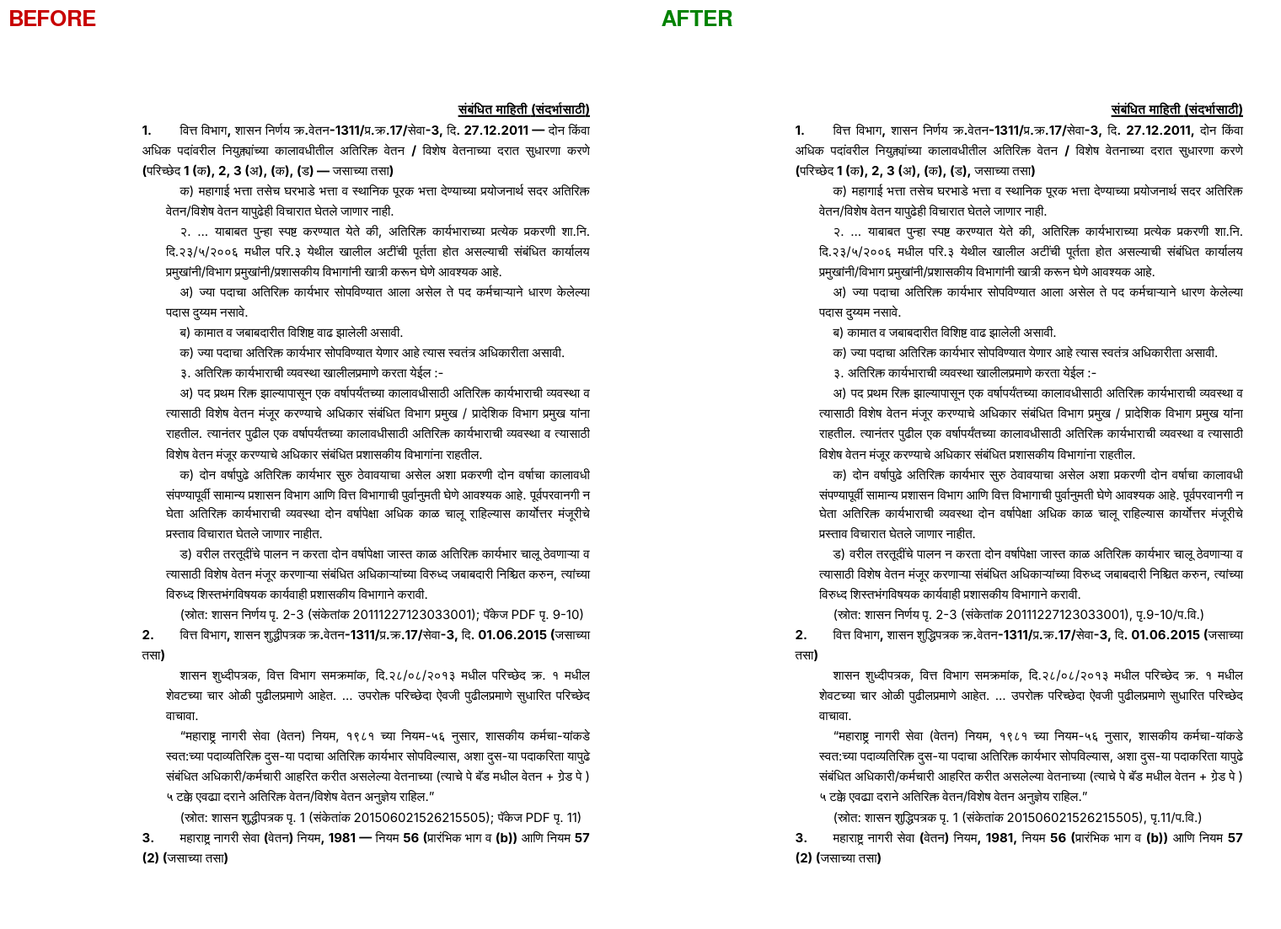
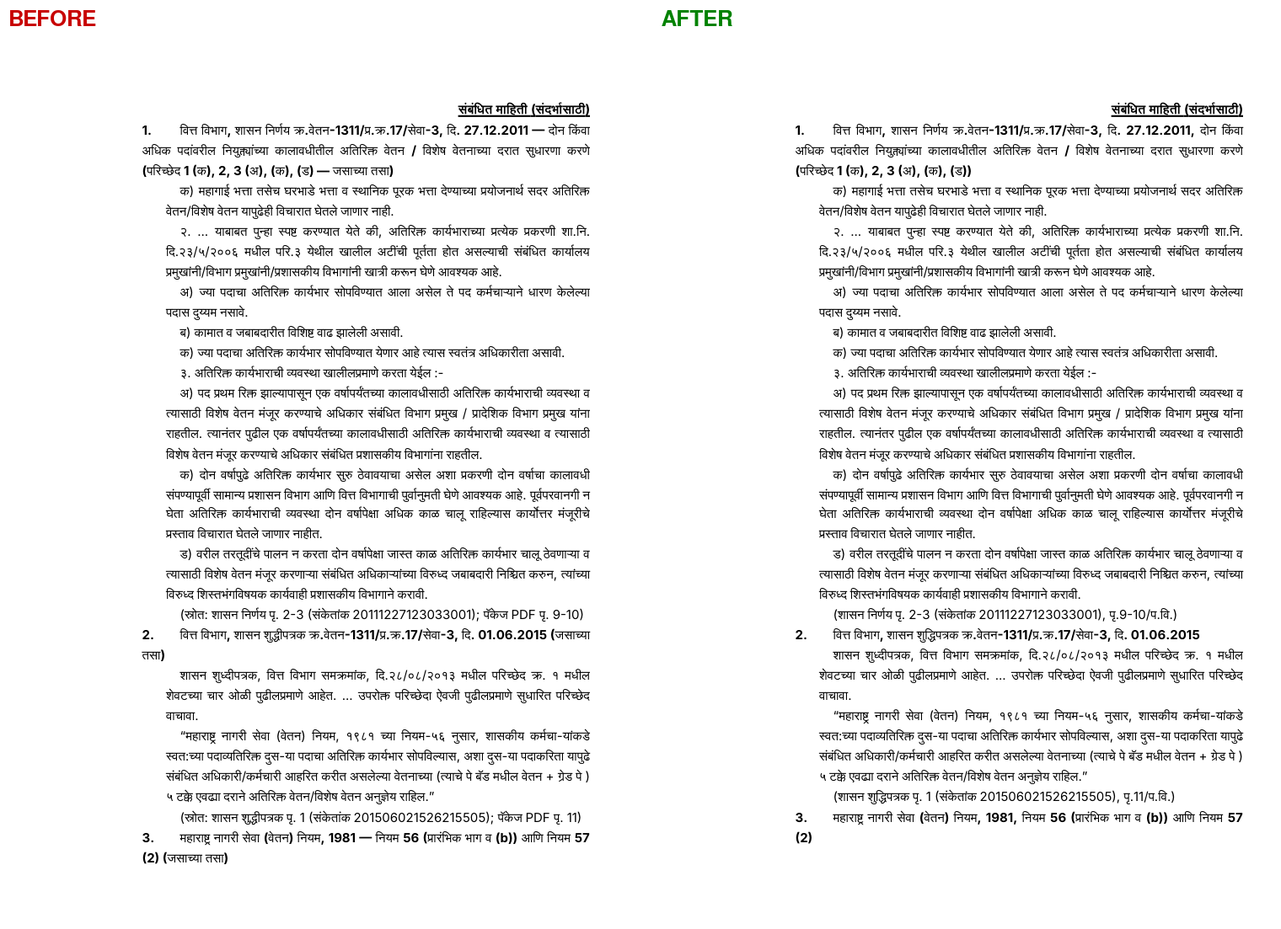
Drafts: drop the words 'स्रोत' and 'जसाच्या तसा' (Abhi 03.11.2026); AI-tells defaults confirmed
- related source line prints '(…, पृ.N/प.वि.)'; headings without '(जसाच्या तसा)'
- lint/verify ban the words in own text (quotes and extracts exempt)
- HANDOVER: decisions 1-6 recorded (3: subject/reference line stays fully bold)

Claude-Session: https://claude.ai/code/session_0111ZseCpfLX2XRdyUfFZWGc

Changed region(s): [[0.6184, 0.6473, 0.9895, 0.9248], [0.773, 0.1541, 0.8039, 0.185]]

diff --git a/tools/verify_outputs.py b/tools/verify_outputs.py
@@ -27,8 +27,11 @@ Checks
   - no warning / working / AI word (lint_spec.draft_word_hits: इशारा, पडताळणी अपूर्ण, मागवावे, वाचन अपूर्ण, अस्पष्ट,
     पडताळलेले नाही, टीप :, warning, TODO, package PDF; AI, Claude, Anthropic, मॉडेल, model, स्वयंचलित, automatic, engine,
     प्रणालीने तयार, generated, LLM, GPT, Gemini) outside “…” quotes in the note body, the संबंधित माहिती heading (bold
-    numbered line) and "(स्रोत: …)" lines, and the letter; the verbatim extracts are exempt
-  - every "(स्रोत: …)" ends with "(पृ.N/प.वि.)" or carries no page marker (lint_spec.related_source_problems)
+    numbered line) and source lines, and the letter; the verbatim extracts are exempt; also "स्रोत", "जसाच्या तसा",
+    "जसेच्या तसे", "जशीच्या तशी" (Abhi 03.11.2026)
+  - source line = the last paragraph "(…)" of each numbered संबंधित माहिती item (before the next bold numbered heading or
+    the end); it ends with "(पृ.N/प.वि.)" (printed "(…, पृ.N/प.वि.)") or carries no page marker
+    (lint_spec.related_source_problems)
   - metadata (tools/clean_meta.py): Study, Note_and_Letter, Order_Draft, Parawise — core properties blank, app.xml
     Application without a tool name, no Word comments, no tracked changes; package PDF — Info dictionary blank, no tool
     name in XMP, no annotation title/subject/content
@@ -278,16 +281,25 @@ def main(argv):
         check("no 'पॅकेज' in Note_and_Letter", pk)
         # C27: warning / working / AI words outside “…” quotes — note body, related heading + source lines, letter
         # (the verbatim related extracts are exempt)
+        # source line (03.11.2026, no word "स्रोत"): the LAST paragraph of each numbered item (before the next bold numbered
+        # heading or the end) when it reads "(…)"; ", पृ.N/प.वि.)" is reversed to " (पृ.N/प.वि.)" for the marker check
         rel_own, rel_src = [], []
         if rel is not None:
+            items = []
             for b in bl[rel + 1:rel_end]:
                 if b["kind"] != "p" or not ns(b["text"]):
                     continue
                 t = ns(b["text"])
-                if t.startswith("(स्रोत:"):
-                    rel_own.append(t); rel_src.append(re.sub(r",\s*(पृ\.[^()]*?/\s*प\.वि\.)$", r" (\1)", re.sub(r"^\(स्रोत:\s*|\)$", "", t)))
-                elif re.match(r"[0-9]+\.", t) and p_bold(Paragraph(b["el"], NL._body)):
+                if re.match(r"[0-9]+\.", t) and p_bold(Paragraph(b["el"], NL._body)):
+                    rel_own.append(t); items.append([])
+                elif items:
+                    items[-1].append(t)
+            for paras in items:
+                if paras and re.match(r"^\(.*\)$", paras[-1]):
+                    t = paras[-1]
                     rel_own.append(t)
+                    rel_src.append(re.sub(r",\s*(पृ\.[^()]*?/\s*प\.वि\.)$", r" (\1)",
+                                          re.sub(r"^\((?:स्रोत:\s*)?|\)$", "", t)))
         check("no warning / working / AI words (note, संबंधित माहिती heading/source, letter)",
               [f"{where}: '{w}'" for where, t in (("note", note_txt), ("संबंधित माहिती", "\n".join(rel_own)),
                                                  ("letter", letter_txt))

diff --git a/tests/test_verify_outputs.py b/tests/test_verify_outputs.py
@@ -229,6 +229,33 @@ class VerifyOutputs(unittest.TestCase):
                 build_note(self.spec_with(f), d)
                 self.must_fail(d, "no warning / working / AI words")
 
+    def test_source_line_printed_without_srot(self):
+        """Abhi 03.11.2026: the related source prints as "(…, पृ.N/प.वि.)" — no word "स्रोत"; verify still finds it."""
+        d = self.case("srcplain")
+        build_note(self.spec_with(lambda s: s["related"][0].__setitem__("source", "परि. 2 (पृ.25/प.वि.)")), d)
+        x = docx.Document(os.path.join(d, f"{PRE}_Note_and_Letter.docx"))
+        txt = [p.text.strip() for p in x.paragraphs]
+        self.assertIn("(परि. 2, पृ.25/प.वि.)", txt)
+        self.assertFalse([t for t in txt if "स्रोत" in t])
+        self.must_fail(d, "page 25 outside package")
+
+    def test_srot_and_jasachya_tasa_in_heading_source_fail(self):
+        for i, (w, where) in enumerate((("स्रोत", "heading"), ("जसाच्या तसा", "source"), ("जसेच्या तसे", "note"),
+                                        ("जशीच्या तशी", "letter"))):
+            with self.subTest(word=w, where=where):
+                d = self.case(f"srot{i}")
+                def f(s, w=w, where=where):
+                    if where == "note": s["note"]["paras"][0] += f" {w}"
+                    elif where == "letter": s["letter"]["subject"] += f" {w}"
+                    elif where == "heading": s["related"][0]["heading"] += f" {w}"
+                    else: s["related"][0]["source"] = f"{w} " + s["related"][0]["source"]
+                build_note(self.spec_with(f), d)
+                self.must_fail(d, "no warning / working / AI words")
+        d = self.case("srotok")   # verbatim extract text is exempt
+        build_note(self.spec_with(lambda s: s["related"][0]["text"].append("उतारा जसाच्या तसा स्रोत")), d)
+        rc, out = self.run_verify(d)
+        self.assertIn("OK: no warning / working / AI words", out)
+
     def test_draft_words_in_extract_or_quote_ok(self):
         d = self.case("dwok")
         def f(s):

diff --git a/tools/mkdocs.py b/tools/mkdocs.py
@@ -15,7 +15,7 @@ spec.json:
               # add "अ.मु.स. (वित्त)" only when the file goes to Finance (INSTRUCTIONS §4.6)
  },
  "doc_author": "<name>",   # optional — Word author / last-modified-by (else env DOC_AUTHOR, else empty); tools/clean_meta.py
- "related": [ {"heading": "<GR/नियम/पूर्वोदाहरण शीर्षक>", "text": ["<जसाच्या तसा उतारा परिच्छेद>", "..."], "source": "<क्रमांक, दिनांक, पृ., परि.>"} ],   # शेवटी 'संबंधित माहिती'
+ "related": [ {"heading": "<GR/नियम/पूर्वोदाहरण शीर्षक>", "text": ["<verbatim extract paragraph>", "..."], "source": "<क्रमांक, दिनांक, पृ., परि.>"} ],   # शेवटी 'संबंधित माहिती'
  "letter": {   # optional — omit when no letter is needed (note only)
    "ref_no": "संकिर्ण-2026/प्र.क्र.116/का.6", "date": "__.__.2026",
    "to": ["प्रबंधक (वित्त व अर्थसंकल्प),", "उच्च न्यायालय (अपील शाखा),", "मुंबई."],
@@ -158,9 +158,10 @@ def build_note(spec, out):
             for tx in it.get("text", []):
                 add(body, sect, numbered, d, f"\t{tx}", left=Cm(0.8))
             if it.get("source"):
-                # "… (पृ.9-10/प.वि.)" prints as "(स्रोत: …, पृ.9-10/प.वि.)" — no doubled ")" (verify reverses it)
+                # "… (पृ.9-10/प.वि.)" prints as "(…, पृ.9-10/प.वि.)" — no doubled ")" and no word "स्रोत" (Abhi 03.11.2026;
+                # verify reverses it)
                 src = re.sub(r"\s*\((पृ\.[^()]*?/\s*प\.वि\.)\)\s*$", r", \1", it["source"])
-                add(body, sect, numbered, d, f"\t(स्रोत: {src})", left=Cm(0.8))
+                add(body, sect, numbered, d, f"\t({src})", left=Cm(0.8))
     nomirror(d); d.save(out); clean_docx(out, spec.get("doc_author"))
 
 def build_letter(spec, out):

diff --git a/tools/engine_supabase.py b/tools/engine_supabase.py
@@ -859,9 +859,10 @@ def agents_json(conf, brief="tools/ENGINE_BRIEF.md"):
         "prompt": base + VERBATIM + WRITER, "model": light}
     out["related_writer"] = {
         "description": "Cheap tier. The note's \"संबंधित माहिती (संदर्भासाठी)\" (spec `related`): verbatim GR/rule/"
-                       "precedent extracts with source, each ending \" (पृ.N/प.वि.)\" from the package map, or with no "
-                       "page marker when the page is not in the package; never \"पॅकेज PDF\", warnings, remarks or any "
-                       "mention of AI (INSTRUCTIONS §4.27); checked by tools/extract_check.py.",
+                       "precedent extracts; each source line = plain \"(GR no., date, page, para)\" ending \" (पृ.N/प.वि.)\" "
+                       "from the package map, or with no page marker when the page is not in the package; headings and "
+                       "sources never use the words \"स्रोत\" or \"जसाच्या तसा\"; never \"पॅकेज PDF\", warnings, remarks "
+                       "or any mention of AI (INSTRUCTIONS §4.27); checked by tools/extract_check.py.",
         "prompt": base + VERBATIM + WRITER, "model": light}
     out["reviewer"] = {
         "description": "Final review and approval (Opus-class). Checks every number/date/name of the note, letter and "

diff --git a/tests/test_lint_spec.py b/tests/test_lint_spec.py
@@ -301,7 +301,8 @@ class LintSpec(unittest.TestCase):
     def test_draft_words_each_fail(self):
         words = ["इशारा", "पडताळणी अपूर्ण", "मागवावे", "वाचन अपूर्ण", "अस्पष्ट", "पडताळलेले नाही", "टीप : तपासावे",
                  "टीप:", "warning", "TODO", "package PDF", "AI", "Claude", "Anthropic", "मॉडेल", "model", "स्वयंचलित",
-                 "automatic", "engine", "प्रणालीने तयार", "generated", "LLM", "GPT", "Gemini"]
+                 "automatic", "engine", "प्रणालीने तयार", "generated", "LLM", "GPT", "Gemini",
+                 "स्रोत:", "जसाच्या तसा", "जसेच्या तसे", "जशीच्या तशी"]   # last four: Abhi 03.11.2026
         for w in words:
             with self.subTest(word=w):
                 self.bad(self.s122, self.add0(f" {w} "), "draft word", "note.paras[0]")

diff --git a/INSTRUCTIONS.md b/INSTRUCTIONS.md
@@ -56,7 +56,7 @@
 26. **मसुदा कधीही टाकून देऊ नये — त्रुटींसह (warnings) द्यावा (वापरकर्ता, 02.11.2026: "punha ase bug yayla nko"):** स्वयंचलित engine-run मध्ये प्रकरण "failed" फक्त तेव्हाच जेव्हा कोणतेही आउटपुट तयार होऊ शकले नाही (पाने वाचताच आली नाहीत / काहीच तयार झाले नाही). अन्यथा तयार झालेल्या तिन्ही फाइल द्याव्यात; प्रत्येक न सुटलेली त्रुटी status.json `warnings` मध्ये "पडताळणी अपूर्ण — <काय, कुठे>" अशी (lint/verify/उतारा/भाग 1 तपासणी मर्यादित प्रयत्नांनंतरही अपूर्ण, C R/नस्ती क्र. नाही, GR न मिळणे, बंधनकारक नियमाशी विसंगत सूचना, अंतिम पडताळणी (Opus) मान्यता नाही). प्रयत्न-मर्यादा व अंतिम स्थिती: tools/ENGINE_PROMPT.md (Escalation (d), Order step 7, नियम 9) व tools/ENGINE_BRIEF.md §0. वापरण्यापूर्वी warnings पाहून मसुदा तपासावा.
 27. **नोंद व पत्रात कोणताही इशारा / "पॅकेज PDF" शब्द नको (वापरकर्ता, 02.11.2026: "Noting drafting mdhe kontahi ishara, package pdf ase शब्द नकोत"):** हा नियम नोंद (मुख्य भाग व "संबंधित माहिती (संदर्भासाठी)"), पत्र, शासन निर्णय/आदेश-प्रारूप व parawise उत्तर यांना लागू; अभ्यास-फाइल व status.json `warnings` यांना लागू नाही.
    - (अ) पृष्ठ-संदर्भ फक्त "पृ.N/प.वि." ("पृ.N-M/प.वि.", "पृ.N,M/प.वि."); N = परत-PDF चे पान (`<pdf>.map.json`). "संबंधित माहिती" मध्ये प्रत्येक स्रोताच्या शेवटी " (पृ.N/प.वि.)"; पान परत-PDF मध्ये नसल्यास पृष्ठ-खूण नाही (फक्त स्रोत: GR क्र./दिनांक/पृष्ठ/परिच्छेद). "पॅकेज PDF", "(पॅकेज PDF पृ. N)", "(पॅकेज PDF मध्ये नाही)" नोंद व पत्रात नकोत.
-   - (आ) स्वतःच्या मजकुरात (“…” उतारे व "संबंधित माहिती" मधील उतारा-मजकूर सोडून) हे शब्द नकोत: "पॅकेज", "इशारा", "पडताळणी अपूर्ण", "मागवावे", "वाचन अपूर्ण", "अस्पष्ट", "पडताळलेले नाही", "टीप :" / "टीप:" (स्वतःचा शेरा), "warning", "TODO".
+   - (आ) स्वतःच्या मजकुरात (“…” उतारे व "संबंधित माहिती" मधील उतारा-मजकूर सोडून) हे शब्द नकोत: "पॅकेज", "इशारा", "पडताळणी अपूर्ण", "मागवावे", "वाचन अपूर्ण", "अस्पष्ट", "पडताळलेले नाही", "टीप :" / "टीप:" (स्वतःचा शेरा), "warning", "TODO", "स्रोत", "जसाच्या तसा" / "जसेच्या तसे" (वापरकर्ता, 03.11.2026: "स्रोत/जसाच्या तसा kadha" — कार्यालयीन नोंदींत हे शब्द नसतात; "संबंधित माहिती" मध्ये स्रोत-ओळ फक्त कंसात "(GR क्र., दिनांक, पृष्ठ, परिच्छेद, पृ.N/प.वि.)").
    - (इ) अस्पष्ट / अज्ञात मूल्य → "____" (कार्यासनाने भरावयाची रिकामी जागा). उपलब्ध नसलेला GR/आदेश/स्रोत नोंदीत अजिबात उल्लेखू नये — तो अभ्यास-फाइल भाग 4 व status.json `warnings` मध्ये. विसंगतीचे शेरे (उदा. मराठी मजकुरात X, इंग्रजीत Y) फक्त अभ्यास-फाइल भाग 4/7 मध्ये. वैद्यकीय (§८.२) सूचना फक्त भाग 7 मध्ये.
    - (ई) शासकीय नोंद-भाषा कायम: "प्रस्तावासोबत खालील माहिती उपलब्ध नाही:- …" चालेल (हा इशारा नाही).
    - (उ) AI/स्वयंचलनाचा कोणताही मागमूस नको (वापरकर्ता, 02.11.2026: "वरिष्ठ अधिकाऱ्याला असे वाटू नये, की AI che kam aahe म्हणून"): नोंद, पत्र, प्रारूपे व GR सह परत-PDF मध्ये स्वतःच्या मजकुरात (“…” उतारे सोडून) "AI", "Claude", "Anthropic", "मॉडेल", "model", "स्वयंचलित", "automatic", "engine", "प्रणालीने तयार", "generated", "LLM", "GPT", "Gemini" नकोत. सर्व docx चे गुणधर्म कार्यालयीन Word फाइलसारखे (आधार: जुन्या नस्तींची तुलना, docs/AI_TELLS.md): author व last_modified_by = वापरकर्त्याने ठरवलेले नाव (spec `doc_author` / env `DOC_AUTHOR`; न ठरल्यास रिकामे) — "python-docx"/"Claude"/"AI" कधीही नाही; title, subject, keywords, comments, category रिकामे; created = modified = तयार केल्याची वेळ, revision 1; app.xml Application "Microsoft Office Word", साच्यातील जुनी आकडेवारी (Pages/Words इ.) नाही; Word comments व tracked changes नाहीत (tools/clean_meta.py). मजकुरात "—" (em dash), "→", web पत्ते, "छापील पृ." नकोत (कार्यालयीन नोंदींत 0). PDF metadata (Producer/Creator/Author/Title/Subject/Keywords) रिकामे ("PyMuPDF"/"Claude"/"AI" नाही); highlight annotation वर author/title मजकूर नाही. अभ्यास-फाइलच्या मजकुरात engine चा उल्लेख चालेल (वापरकर्त्याची स्वतःची कार्य-फाइल), पण तिचे docx गुणधर्मही रिकामे.

diff --git a/PROPOSAL_SOP.md b/PROPOSAL_SOP.md
@@ -68,7 +68,7 @@ Copy the structure of the nearest sample in `samples/specs/` and fill your facts
   - GR/rule text verbatim in “ ” with "(पृ.N/प.वि.)".
   - Earlier record of the same matter = stated as a fact with its reference.
 - **Page references:** only "पृ.N/प.वि.", where N = page in the returned PDF (proposal pages 1..n, then the attached GR pages). Never "पॅकेज PDF" anywhere in the note (body or related) or the letter (INSTRUCTIONS §4.27).
-- **No warnings in the drafts (INSTRUCTIONS §4.27, 02.11.2026):** unclear/unknown value → "____"; a GR/source not available is not mentioned in the note (Study part 4 + `warnings`); discrepancy remarks → Study part 4/7. Outside “…” quotes and related extract text, never: "पॅकेज", "इशारा", "पडताळणी अपूर्ण", "मागवावे", "वाचन अपूर्ण", "अस्पष्ट", "पडताळलेले नाही", own "टीप :", "warning", "TODO". Applies to order/parawise drafts too. "प्रस्तावासोबत खालील माहिती उपलब्ध नाही:- …" is allowed. No trace of AI in the drafts or the returned PDF (Abhi: "वरिष्ठ अधिकाऱ्याला असे वाटू नये, की AI che kam aahe म्हणून"): no "AI", "Claude", "मॉडेल", "स्वयंचलित", "engine", "प्रणालीने तयार" etc. (full list §4.27 (उ)); docx/PDF metadata blank.
+- **No warnings in the drafts (INSTRUCTIONS §4.27, 02.11.2026):** unclear/unknown value → "____"; a GR/source not available is not mentioned in the note (Study part 4 + `warnings`); discrepancy remarks → Study part 4/7. Outside “…” quotes and related extract text, never: "पॅकेज", "इशारा", "पडताळणी अपूर्ण", "मागवावे", "वाचन अपूर्ण", "अस्पष्ट", "पडताळलेले नाही", own "टीप :", "warning", "TODO", "स्रोत", "जसाच्या तसा"/"जसेच्या तसे" (Abhi 03.11.2026; the related source line prints as "(…, पृ.N/प.वि.)"). Applies to order/parawise drafts too. "प्रस्तावासोबत खालील माहिती उपलब्ध नाही:- …" is allowed. No trace of AI in the drafts or the returned PDF (Abhi: "वरिष्ठ अधिकाऱ्याला असे वाटू नये, की AI che kam aahe म्हणून"): no "AI", "Claude", "मॉडेल", "स्वयंचलित", "engine", "प्रणालीने तयार" etc. (full list §4.27 (उ)); docx/PDF metadata blank.
 - **Banned words:** no commentary or theory, no arithmetic explanations, no advice. Closed list (checked by `tools/verify_outputs.py` in the note body and the letter; keep both lists identical — 01.11.2026 सुसंगती): "दिसून येते", "असे दिसते", "पडताळणी केली असता", "माझ्या मते", "मला वाटते", "असे वाटते", "ठरवावे", "कदाचित", "बहुधा".
 - **Missing information para:** "प्रस्तावासोबत खालील माहिती उपलब्ध नाही:- (1)…; (2)…".
 - **Last para, one of:**

diff --git a/HANDOVER.md b/HANDOVER.md
@@ -44,9 +44,9 @@
   (77 office notes + 90 letters vs our 6 samples). Evidence: docs/ai-tells-cr131-before-after.png. Tests 293 passed.
 
 ## Pending
-10. **AI-tells decisions (Abhi; provisional default in brackets) — docs/AI_TELLS.md:** (1) Word author name (DOC_AUTHOR) [empty];
+10. **AI-tells decisions — DECIDED 03.11.2026 (Abhi: "Default thewa, 4 madhe स्रोत/जसाच्या तसा kadha"): bracketed defaults final; (4) the words "स्रोत"/"जसाच्या तसा" removed from drafts (§4.27 (आ), lint) — docs/AI_TELLS.md:** (1) Word author name (DOC_AUTHOR) [empty];
    (2) signer forms "का.अ.(…)" / "अवर सचिव, महाराष्ट्र शासन" as in office files vs §4.5/§4.6 [current]; (3) subject/reference
-   fully bold+centre (§4.10) vs office (label only bold) [current]; (4) "संबंधित माहिती" block + words "स्रोत"/"जसाच्या तसा" (office
+   fully bold+centre (§4.10) vs office (label only bold) [current — Abhi 03.11.2026: "3 ठळक", full line bold stays]; (4) "संबंधित माहिती" block + words "स्रोत"/"जसाच्या तसा" (office
    never uses them) [keep block; drop the two words after decision]; (5) "(1)…; (2)…" lists vs office "."/"," [current];
    (6) linking words तथापि/त्यानुषंगाने/परंतु [use where fitting, one point per sentence kept].
    Items removed from samples' notes (still unavailable): CR122 — MCS Pay Rules 1981 rule 11 original, Finance circular 05.12.1985;

diff --git a/tools/ENGINE_BRIEF.md b/tools/ENGINE_BRIEF.md
@@ -68,7 +68,7 @@ content; section 0 wins over every ask / discuss / stop line (no interaction in 
   No repo paths, no internal ids (z6_0235 …).
 - [I4.27] Drafts (note + related, letter, order/parawise): no warning, no trace of AI. Own text (not quotes /
   related extracts) never has: "पॅकेज", "इशारा", "पडताळणी अपूर्ण", "मागवावे", "वाचन अपूर्ण", "अस्पष्ट",
-  "पडताळलेले नाही", own "टीप :", warning, TODO, AI, Claude, Anthropic, "मॉडेल", model, "स्वयंचलित", automatic,
+  "पडताळलेले नाही", own "टीप :", warning, TODO, स्रोत, जसाच्या तसा, AI, Claude, Anthropic, "मॉडेल", model, "स्वयंचलित", automatic,
   engine, "प्रणालीने तयार", generated, LLM, GPT, Gemini. Unknown -> "____"; missing GR/source, discrepancies,
   [I8] caution -> Study part 4/7 + `warnings` only. The missing-info para stays. No "—", "→", URLs.
   Metadata: tools.

diff --git a/tools/ENGINE_PROMPT.md b/tools/ENGINE_PROMPT.md
@@ -92,7 +92,7 @@ Expected cost per typical proposal (15 pages, 3 GRs; estimate, not yet measured 
    - `related_writer`: "Read the brief, /tmp/work/related_plan.md, /tmp/work/spec.json and OUTDIR/<package> +
      its .map.json. Write /tmp/work/related.json = the spec `related` list (verbatim extracts in “…”, source, each
      ending " (पृ.N/प.वि.)" from the map, or with no page marker when the page is not in the package; never
-     "पॅकेज PDF", warnings or remarks — INSTRUCTIONS §4.27)."
+     "पॅकेज PDF", warnings, remarks, "स्रोत" or "जसाच्या तसा" — INSTRUCTIONS §4.27)."
    - `study_writer`: "Read the brief, facts.json, spec.json, study_part0.json, candidates.md and the package. Write
      /tmp/work/study_rest.json = parts 2, 3, 4, 7 (build_study parts; part 3 extracts verbatim in “…” with
      "(पॅकेज PDF पृ. N)" or "(पॅकेज PDF मध्ये नाही)"; unavailable GRs, discrepancies, cautions in parts 4/7)."
